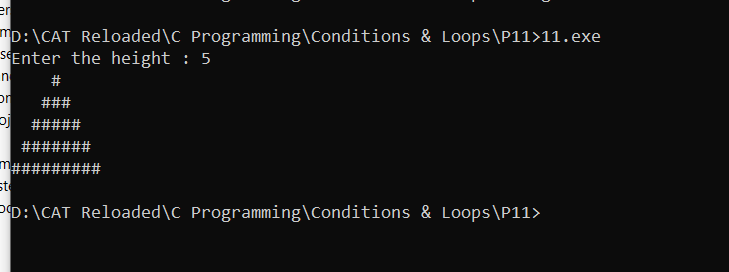
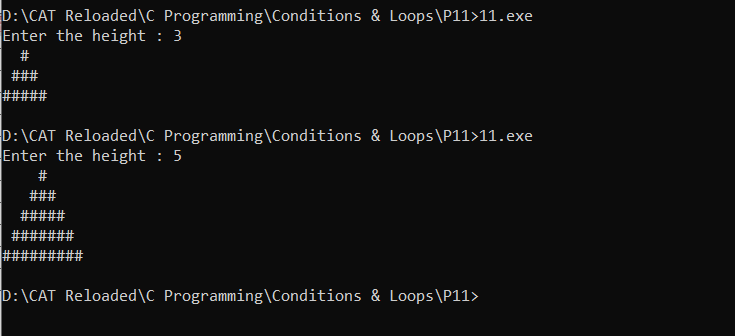
updata the solution of problem 11

Changed region(s): [[0.0, 0.0, 0.845, 1.0]]

diff --git a/C Programming/Conditions & Loops/P11/11.c b/C Programming/Conditions & Loops/P11/11.c
@@ -7,45 +7,30 @@ Write a c code that draws a pyramid of stars with height entered by the user.
 
 int main()
 {
-	int height , n;
+	int height;
 	
-	/*
-	take the height of pyramid from user
-	*/
 	printf("Enter the height : ");
 	scanf("%d",&height);
 	
-	n = height - 1;
+	int i , j;
 	
-	/*
-	fisrt for loop is used to print num of lines equal height
-	*/	
-	for(int i = 0; i < height; i++)
+	
+	for(i = 1; i <= height; i++)
 	{
-		/*
-		second for loop is used to shift # by (h-n) time using spaces
-		*/
-		for(int j = 0; j < n; j++)
+		for(j = 1; j <= 2*height-1; j++)
 		{
-			printf(" ");
-		}
-		/*
-		third for loop is used to print num of # equal (h-n) time
-		*/
-		for(int i = 0; i < (height-n); i++)
-		{
-			printf("#");
-		}
-		/*
-		fourth for loop is used to complete the pyramid by # 
-		*/
-		for(int i = 0; i < (height-n-1); i++)
-		{
-			printf("#");
+			if(j >= height - (i-1) && j <= height + (i-1))
+			{
+				printf("#");
+			}
+			else
+			{
+				printf(" ");				
+			}
 		}
 		printf("\n");
-		n--;
 	}
+	
 	
 	
 	return 0;
